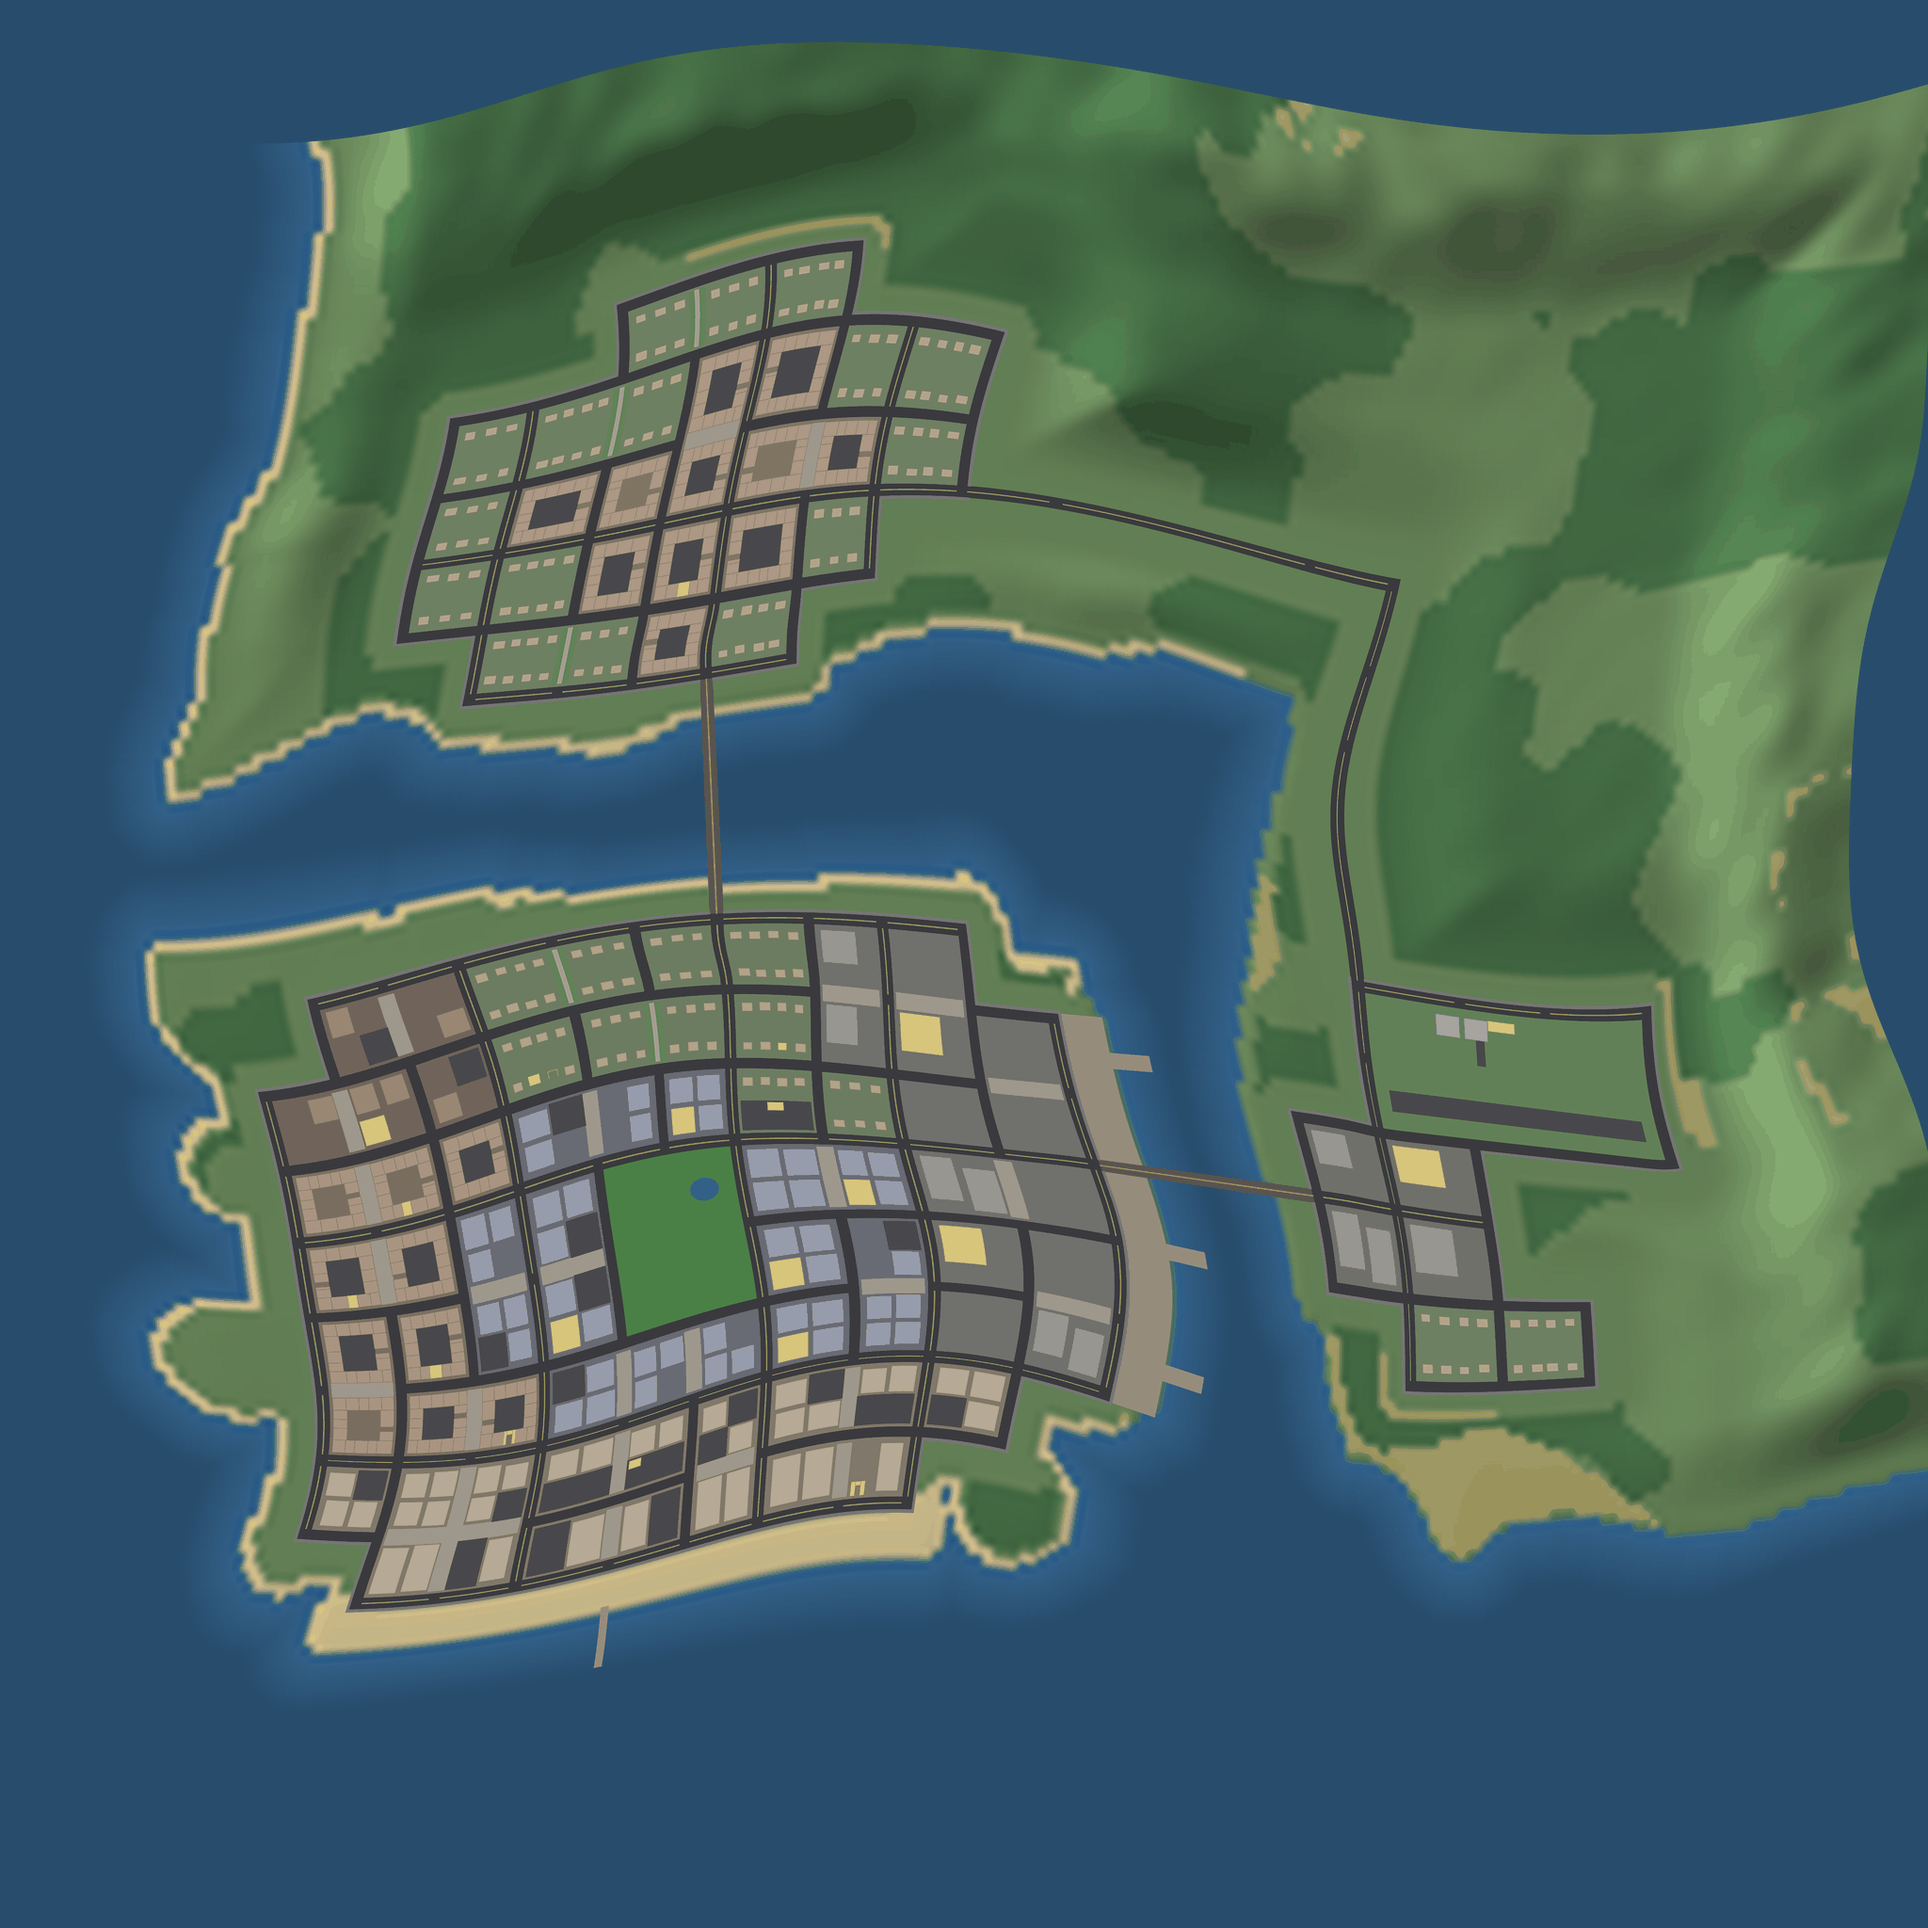
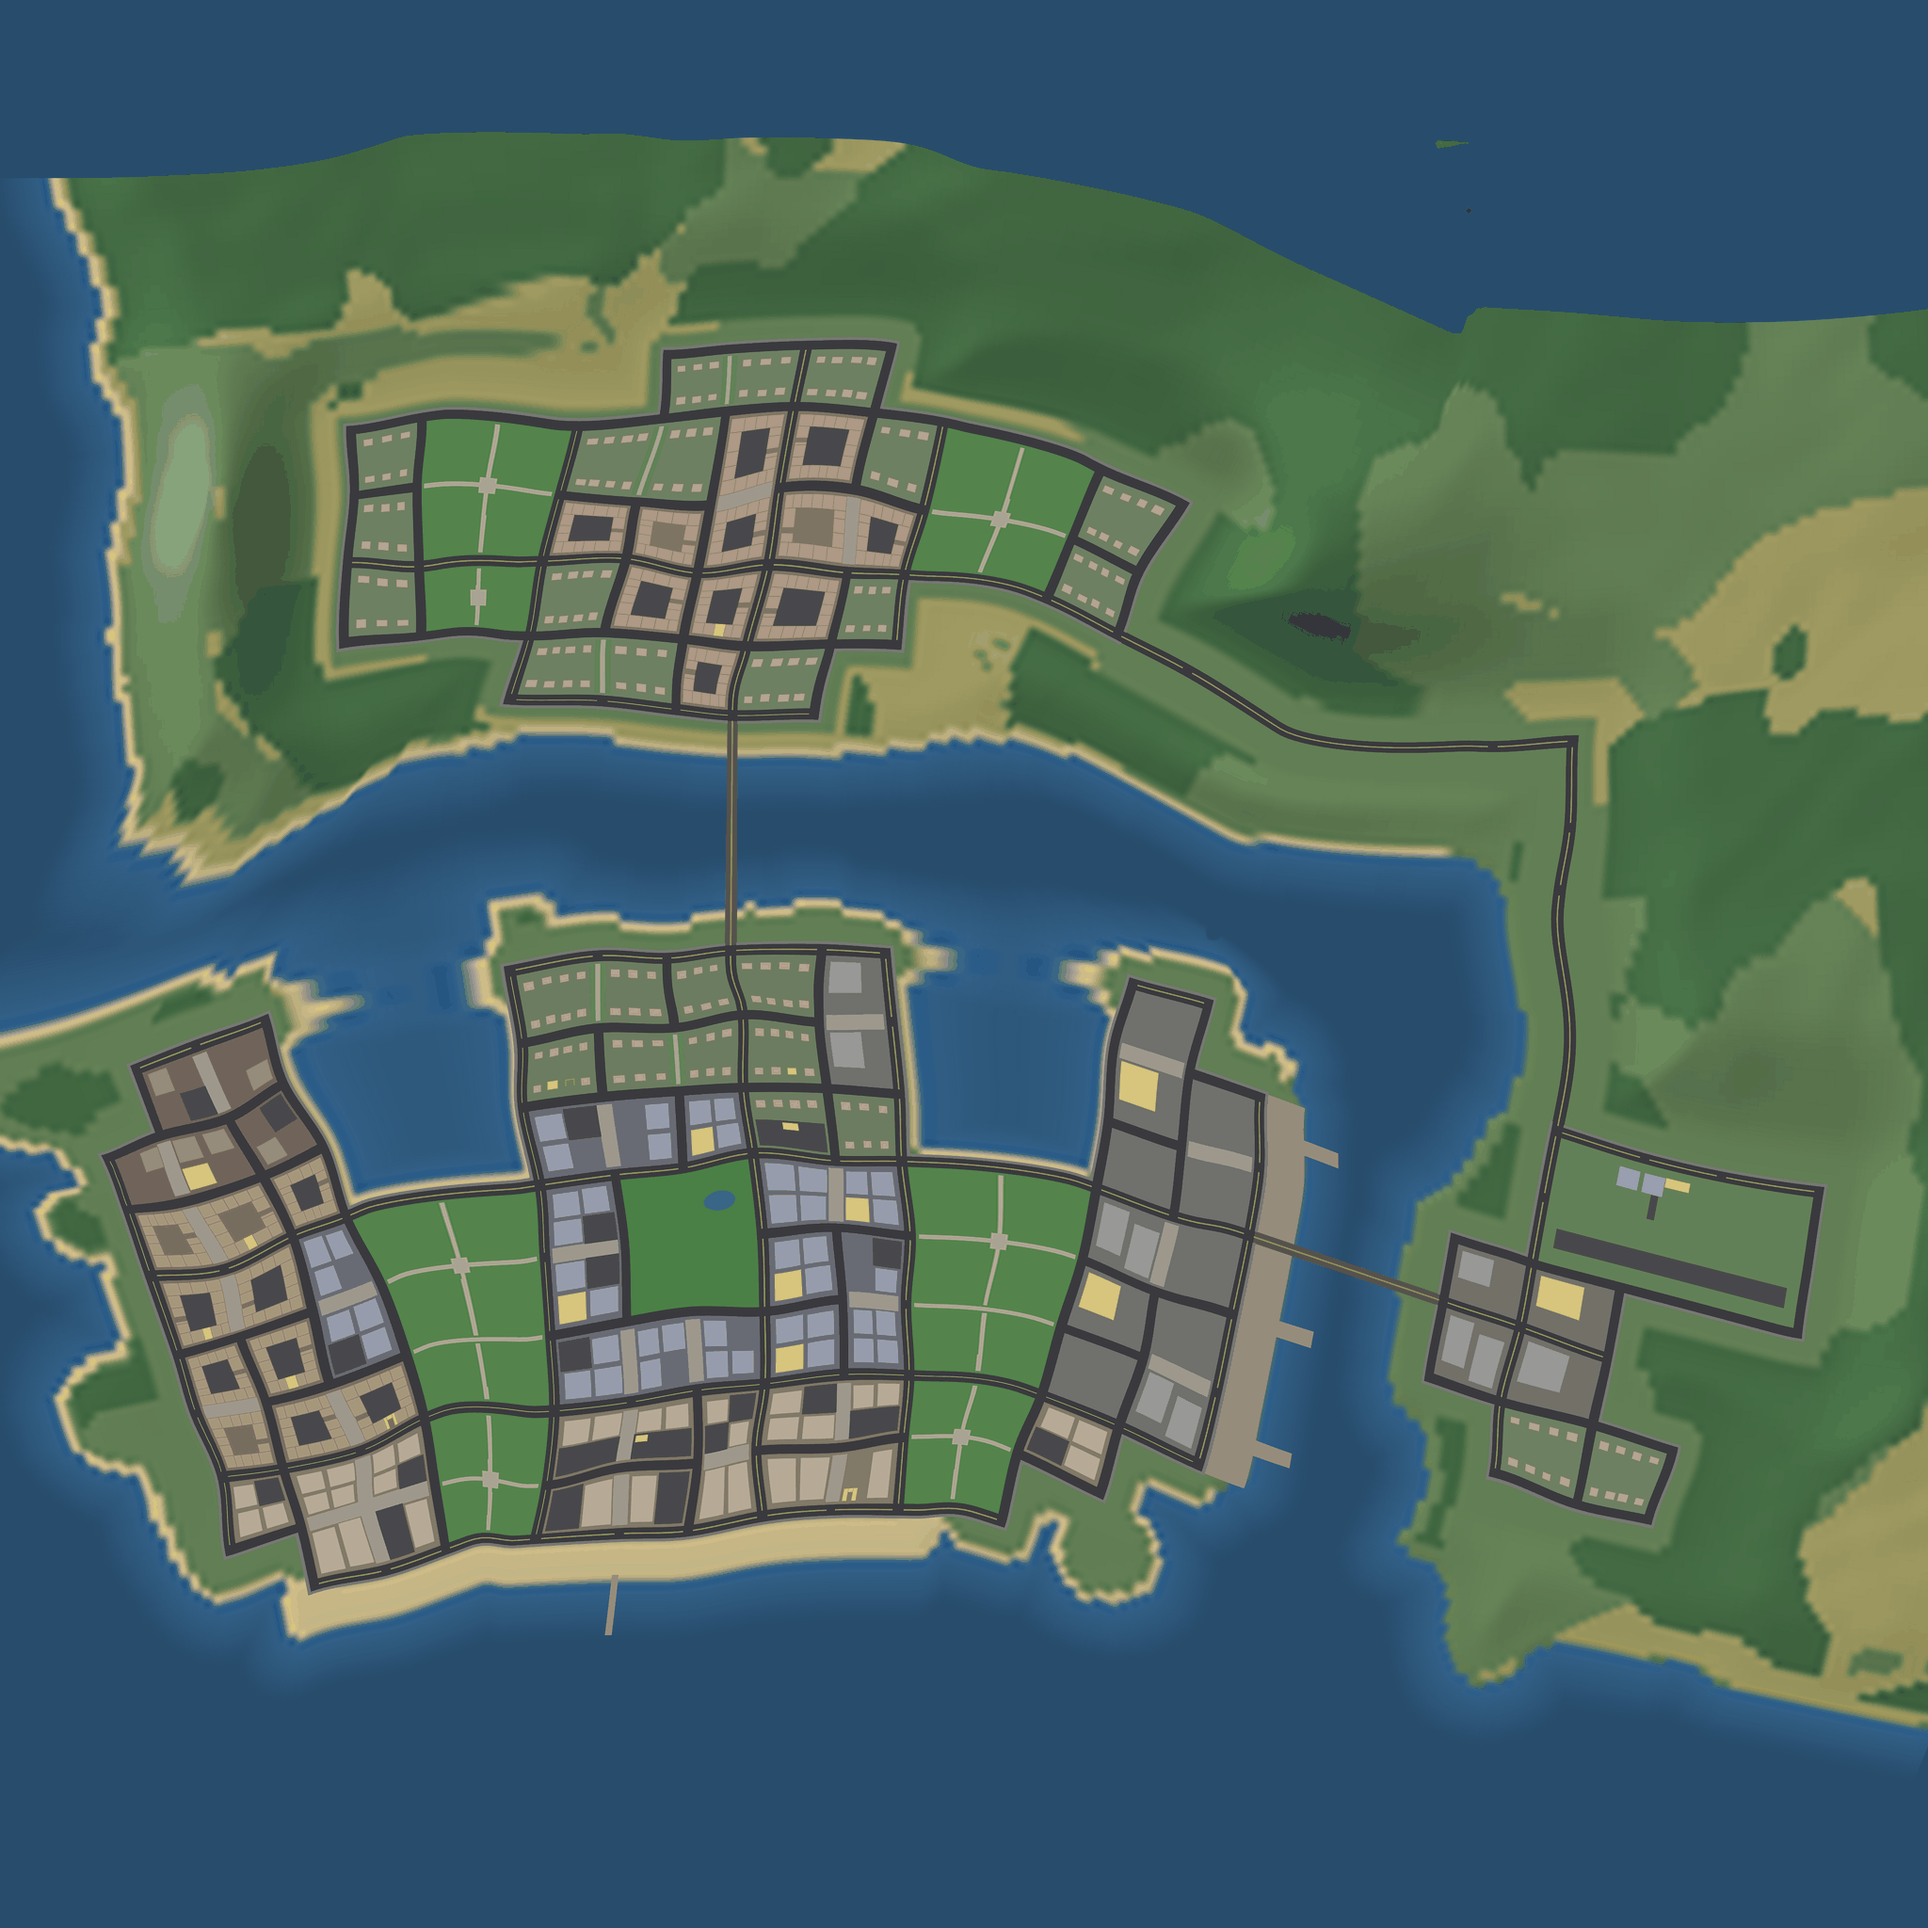
Черновик: дальняя карта теней по надобности, имена садов и ковшей, карта

diff --git a/game/gfx.py b/game/gfx.py
@@ -214,11 +214,7 @@ class _Cascade(object):
 
     def fit(self, base, cam_pos, fwd, ground_z, sun):
         """Поставить карту так, чтобы она накрывала то, что видит игрок."""
-        span = self.span
-        t = span * 0.40
-        if fwd[2] < -0.02:
-            t = min(t, max(0.0, (cam_pos[2] - ground_z) / -fwd[2]))
-        cx, cy = cam_pos[0] + fwd[0] * t, cam_pos[1] + fwd[1] * t
+        cx, cy = self._aim(cam_pos, fwd, ground_z)
         cz = ground_z
         self.aim = (cx, cy)
         self.sun = (sun[0], sun[1], sun[2])
@@ -246,13 +242,20 @@ class _Cascade(object):
         m *= LMatrix4.translateMat(0.5, 0.5, 0.5)
         self.mat = m
 
-    def stale(self, cam_pos, fwd, sun):
+    def _aim(self, cam_pos, fwd, ground_z):
+        """Куда навести карту: на землю перед камерой, туда, куда смотрит игрок."""
+        t = self.span * 0.40
+        if fwd[2] < -0.02:
+            t = min(t, max(0.0, (cam_pos[2] - ground_z) / -fwd[2]))
+        return cam_pos[0] + fwd[0] * t, cam_pos[1] + fwd[1] * t
+
+    def stale(self, cam_pos, fwd, ground_z, sun):
         """Пора ли перерисовать дальнюю карту: взгляд ушёл, солнце сдвинулось или просто давно не рисовали."""
         if self.aim is None or self.age >= FAR_EVERY:
             return True
-        t = self.span * 0.40
-        dx = cam_pos[0] + fwd[0] * t - self.aim[0]
-        dy = cam_pos[1] + fwd[1] * t - self.aim[1]
+        cx, cy = self._aim(cam_pos, fwd, ground_z)
+        dx = cx - self.aim[0]
+        dy = cy - self.aim[1]
         lim = self.span * FAR_SHIFT
         if dx * dx + dy * dy > lim * lim:
             return True
@@ -879,7 +882,7 @@ class Gfx(object):
                 # дальняя карта — только неподвижный город, поэтому каждый кадр её рисовать незачем: хватает
                 # раза в пару секунд и тогда, когда взгляд ушёл в сторону
                 c1.age += dt
-                redo = on and c1.stale(cp, fwd, sun)
+                redo = on and c1.stale(cp, fwd, gz, sun)
                 c1.buf.setActive(redo)
                 if redo:
                     c1.fit(base, cp, fwd, gz, sun)

diff --git a/game/city.py b/game/city.py
@@ -1295,7 +1295,18 @@ class City(object):
         return zone
 
     def zone_name_l(self, x, y):
-        return ZONE_NAMES.get(self.zone_at_l(x, y), '')
+        z = self.zone_at_l(x, y)
+        if z in ('K', 'sea'):
+            # у клиньев между районами свои имена: сады, а севернее, где клин залит водой, — ковши
+            w0, w1 = WEDGE_COLS
+            north = y > self.ys[self.isle_j1 + 1] + 150.0
+            west = self.xs[w0] - 8.0 < x < self.xs[w0 + 1] + 8.0
+            east = self.xs[w1] - 8.0 < x < self.xs[w1 + 1] + 8.0
+            if z == 'K':
+                return 'Заречные сады' if north else ('Адмиральский сад' if west else 'Канатный сад')
+            if (west or east) and self.ys[WEDGE_J1 + 1] < y < self.ys[self.isle_j1 + 1] + 40.0:
+                return 'Адмиральский ковш' if west else 'Канатный ковш'
+        return ZONE_NAMES.get(z, '')
 
     def nearest_node(self, x, y):
         best = None

diff --git a/tools/gen_map.py b/tools/gen_map.py
@@ -168,10 +168,12 @@ def render(c, name, cx, cy, half, size, layer, snowy=False):
                 rect(x0, (y0 + y1) * 0.5 - 2.4, x1, (y0 + y1) * 0.5 + 2.4, (168, 160, 146))
             else:
                 rect((x0 + x1) * 0.5 - 2.4, y0, (x0 + x1) * 0.5 + 2.4, y1, (168, 160, 146))
-    # покрытия внутри кварталов, заметные на карте: взлётная полоса, асфальт
+    # покрытия внутри кварталов, заметные на карте: взлётная полоса, асфальт, аллеи садов-клиньев
     for (x0, y0, x1, y1, tex, tile, color, block, z, rot) in c.ground:
         if tex == 'asphalt' and (x1 - x0) * (y1 - y0) > 400.0:
             rect(x0, y0, x1, y1, (72, 72, 76))
+        elif tex == 'pavers' and 0 <= block < len(c.blocks) and c.blocks[block].zone == 'K':
+            rect(x0, y0, x1, y1, (172, 166, 148))
     pond = c.special.get('pond')
     if pond:
         a = P(pond['x'] - pond['rx'], pond['y'] + pond['ry'])
